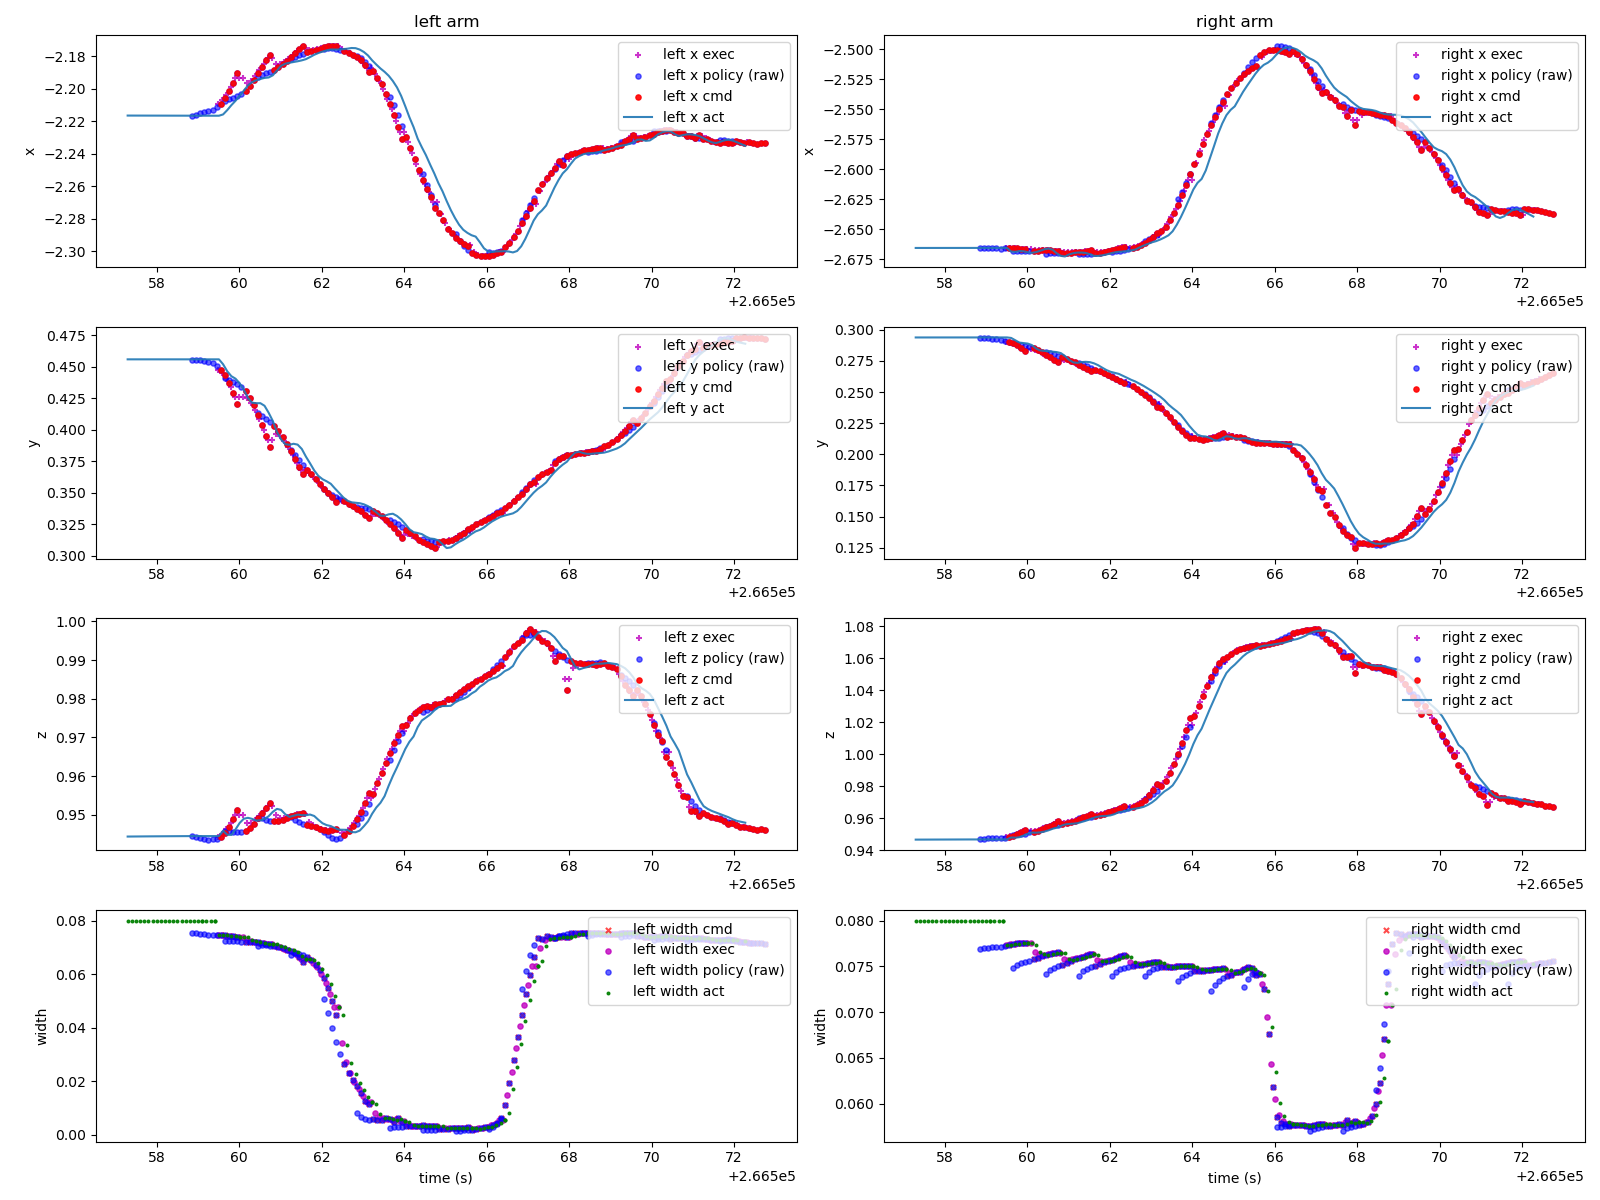
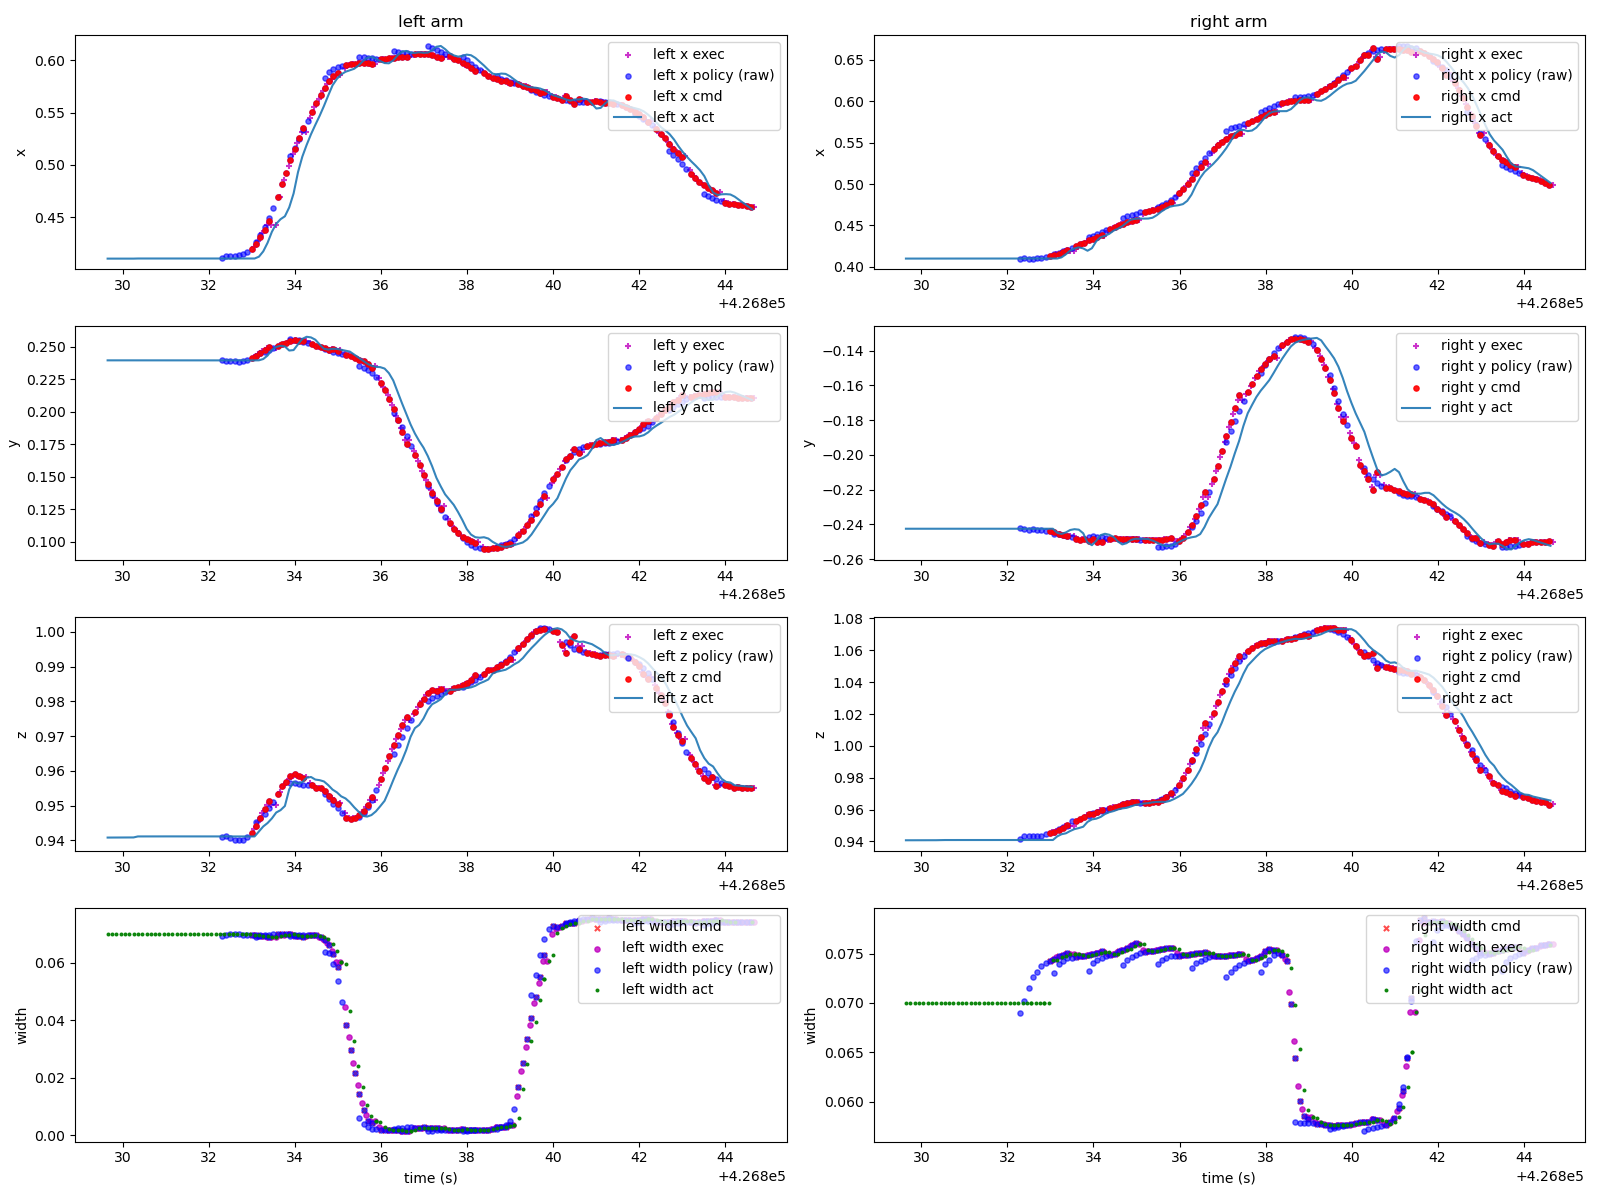
sync with upstream master branch

diff --git a/control/rby1_policy.py b/control/rby1_policy.py
@@ -36,7 +36,7 @@ from scipy.spatial.transform import Rotation, Slerp
 
 import yaml
 
-from ik.rby1_whole_body_ik import RBY1WholeBodyIK
+from rby1.whole_body_ik import RBY1WholeBodyIK
 from .rby1_wbc import RBY1WBC
 
 try:  # pragma: no cover - optional dependency
